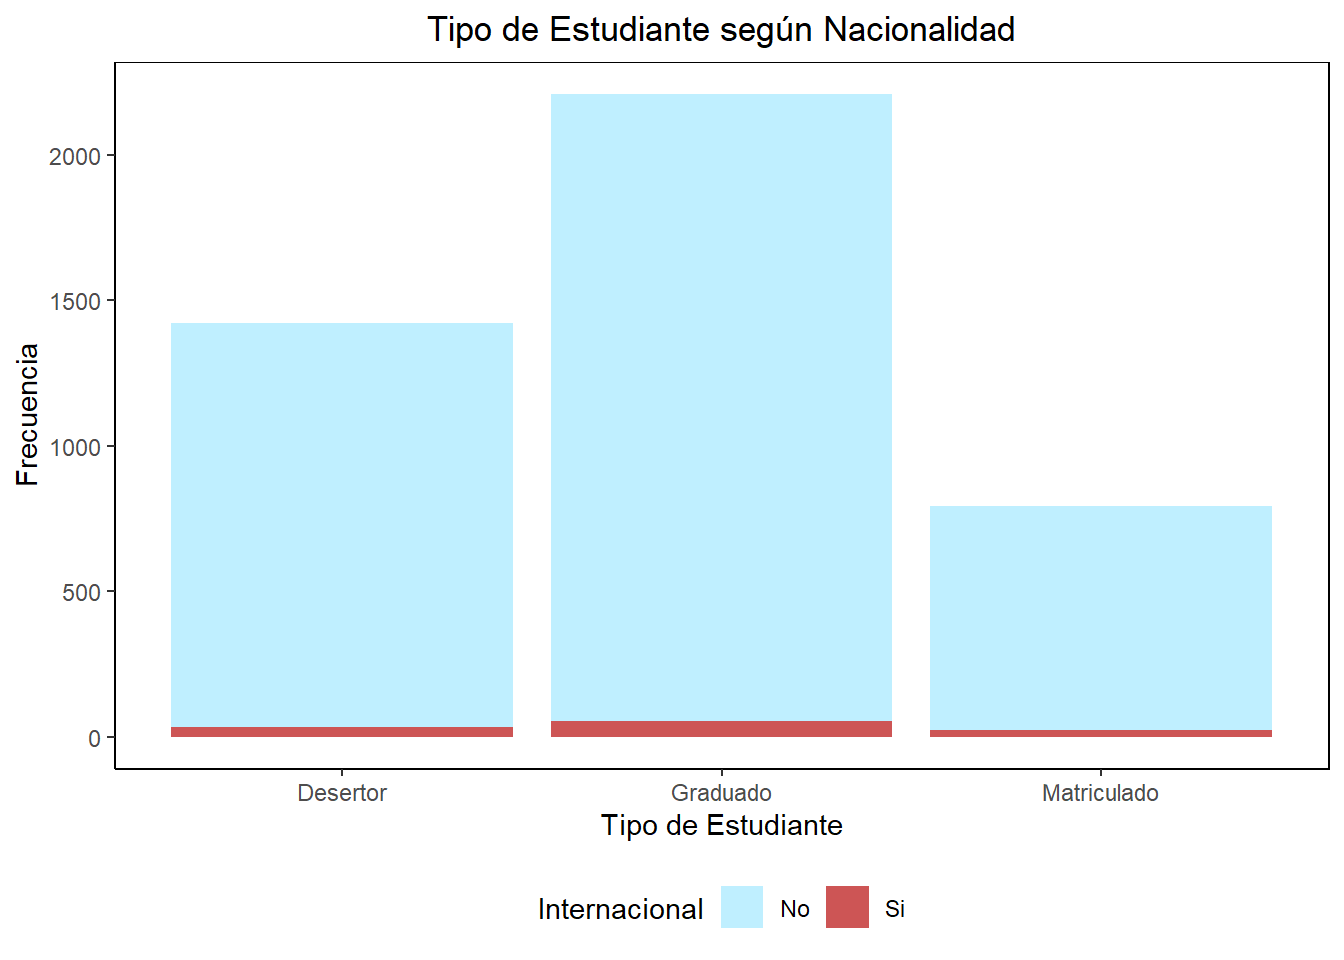
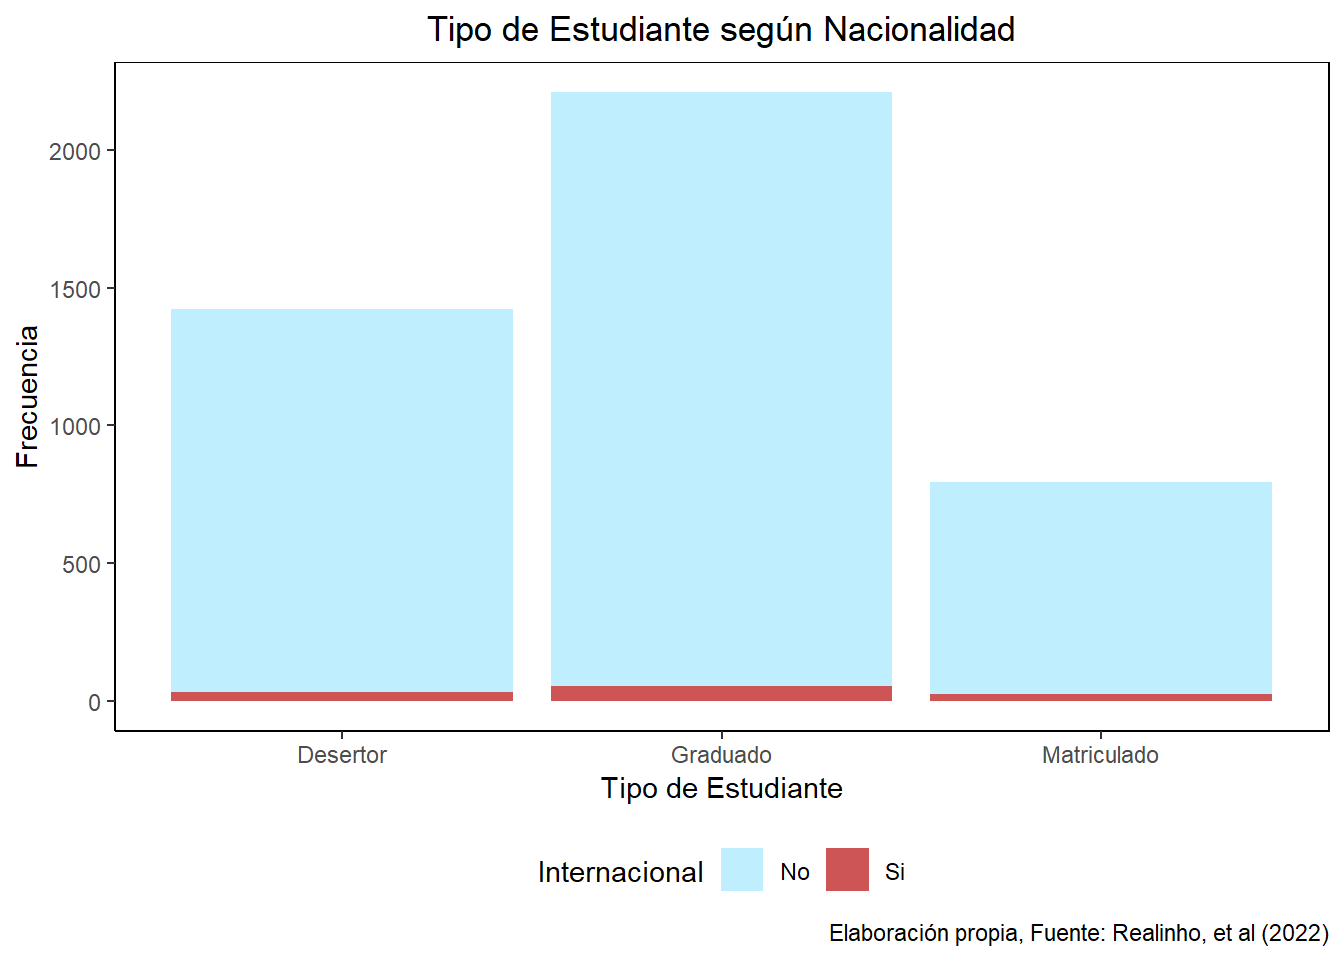
feat: correcciones bit-2

diff --git a/docs/bitacora-2.html b/docs/bitacora-2.html
@@ -64,6 +64,7 @@ pre > code.sourceCode > span > a:first-child::before { text-decoration: underlin
 <script src="site_libs/quarto-search/fuse.min.js"></script>
 <script src="site_libs/quarto-search/quarto-search.js"></script>
 <meta name="quarto:offset" content="./">
+<link href="./bitacora-3.html" rel="next">
 <link href="./bitacora-1.html" rel="prev">
 <script src="site_libs/quarto-html/quarto.js"></script>
 <script src="site_libs/quarto-html/popper.min.js"></script>
@@ -192,6 +193,12 @@ pre > code.sourceCode > span > a:first-child::before { text-decoration: underlin
   <div class="sidebar-item-container"> 
   <a href="./bitacora-2.html" class="sidebar-item-text sidebar-link active">
  <span class="menu-text"><span class="chapter-number">2</span>&nbsp; <span class="chapter-title">Bitácora 2: Análisis Descriptivo de los Datos</span></span></a>
+  </div>
+</li>
+        <li class="sidebar-item">
+  <div class="sidebar-item-container"> 
+  <a href="./bitacora-3.html" class="sidebar-item-text sidebar-link">
+ <span class="menu-text"><span class="chapter-number">3</span>&nbsp; <span class="chapter-title">Bitácora 3</span></span></a>
   </div>
 </li>
     </ul>
@@ -1177,7 +1184,7 @@ A continuación se presentan los paquetes necesarios, así como la inserción de
 <span id="cb13-54"><a href="#cb13-54" aria-hidden="true" tabindex="-1"></a>  <span class="fu">geom_tile</span>() <span class="sc">+</span> <span class="fu">scale_fill_gradient</span>(<span class="at">low=</span><span class="st">"#AAE48D"</span>,</span>
 <span id="cb13-55"><a href="#cb13-55" aria-hidden="true" tabindex="-1"></a>                                    <span class="at">high =</span> <span class="st">"#2B7308"</span>,</span>
 <span id="cb13-56"><a href="#cb13-56" aria-hidden="true" tabindex="-1"></a>                                    <span class="at">guide =</span> <span class="st">"colorbar"</span> )<span class="sc">+</span></span>
-<span id="cb13-57"><a href="#cb13-57" aria-hidden="true" tabindex="-1"></a>  <span class="fu">facet_wrap</span>(<span class="sc">~</span> target) <span class="sc">+</span> <span class="fu">labs</span>(<span class="at">x =</span> <span class="st">"Nivel educativo de la madre"</span>, <span class="at">y =</span> <span class="st">"Nivel educativo del padre"</span>, <span class="at">fill =</span> <span class="st">"Frecuencia"</span>)<span class="sc">+</span><span class="fu">theme_bw</span>() <span class="sc">+</span> <span class="fu">theme</span>(<span class="at">axis.text.x =</span> <span class="fu">element_text</span>(<span class="at">angle=</span><span class="dv">90</span>,<span class="at">hjust=</span><span class="dv">1</span>), <span class="at">size =</span> <span class="dv">6</span>)</span>
+<span id="cb13-57"><a href="#cb13-57" aria-hidden="true" tabindex="-1"></a>  <span class="fu">facet_wrap</span>(<span class="sc">~</span> target) <span class="sc">+</span> <span class="fu">labs</span>(<span class="at">x =</span> <span class="st">"Nivel educativo de la madre"</span>, <span class="at">y =</span> <span class="st">"Nivel educativo del padre"</span>, <span class="at">fill =</span> <span class="st">"Frecuencia"</span>, <span class="at">caption =</span> <span class="st">"Elaboración propia, Fuente: Realinho, et al (2022)"</span>)<span class="sc">+</span><span class="fu">theme_bw</span>() <span class="sc">+</span> <span class="fu">theme</span>(<span class="at">axis.text.x =</span> <span class="fu">element_text</span>(<span class="at">angle=</span><span class="dv">90</span>,<span class="at">hjust=</span><span class="dv">1</span>), <span class="at">size =</span> <span class="dv">6</span>)</span>
 <span id="cb13-58"><a href="#cb13-58" aria-hidden="true" tabindex="-1"></a><span class="fu">print</span>(p)</span></code><button title="Copiar al portapapeles" class="code-copy-button"><i class="bi"></i></button></pre></div>
 <div class="cell-output-display">
 <div>
@@ -1196,13 +1203,14 @@ A continuación se presentan los paquetes necesarios, así como la inserción de
 <span id="cb14-6"><a href="#cb14-6" aria-hidden="true" tabindex="-1"></a>    <span class="at">x =</span> <span class="st">"Tipo de Estudiante"</span>,</span>
 <span id="cb14-7"><a href="#cb14-7" aria-hidden="true" tabindex="-1"></a>    <span class="at">y =</span> <span class="st">"Frecuencia"</span>,</span>
 <span id="cb14-8"><a href="#cb14-8" aria-hidden="true" tabindex="-1"></a>    <span class="at">fill =</span> <span class="st">"Cuotas al día"</span>,</span>
-<span id="cb14-9"><a href="#cb14-9" aria-hidden="true" tabindex="-1"></a>    <span class="at">title =</span> <span class="st">"Deudor en Cuotas Escolares según el tipo de estudiante"</span></span>
-<span id="cb14-10"><a href="#cb14-10" aria-hidden="true" tabindex="-1"></a>  ) <span class="sc">+</span></span>
-<span id="cb14-11"><a href="#cb14-11" aria-hidden="true" tabindex="-1"></a>  <span class="fu">scale_fill_manual</span>(<span class="at">values =</span> <span class="fu">c</span>(<span class="st">"Si"</span> <span class="ot">=</span> <span class="st">"#A2CD5A"</span>,<span class="st">"No"</span><span class="ot">=</span><span class="st">"red"</span>))<span class="sc">+</span></span>
-<span id="cb14-12"><a href="#cb14-12" aria-hidden="true" tabindex="-1"></a>  <span class="fu">theme</span>(<span class="at">legend.position =</span> <span class="st">"bottom"</span>, </span>
-<span id="cb14-13"><a href="#cb14-13" aria-hidden="true" tabindex="-1"></a>        <span class="at">panel.border =</span> <span class="fu">element_rect</span>(<span class="at">colour =</span> <span class="st">"black"</span>, <span class="at">fill =</span> <span class="cn">NA</span>),</span>
-<span id="cb14-14"><a href="#cb14-14" aria-hidden="true" tabindex="-1"></a>        <span class="at">plot.title =</span> <span class="fu">element_text</span>(<span class="at">hjust =</span> <span class="fl">0.5</span>))</span>
-<span id="cb14-15"><a href="#cb14-15" aria-hidden="true" tabindex="-1"></a><span class="fu">print</span>(p)</span></code><button title="Copiar al portapapeles" class="code-copy-button"><i class="bi"></i></button></pre></div>
+<span id="cb14-9"><a href="#cb14-9" aria-hidden="true" tabindex="-1"></a>    <span class="at">title =</span> <span class="st">"Deudor en Cuotas Escolares según el tipo de estudiante"</span>,</span>
+<span id="cb14-10"><a href="#cb14-10" aria-hidden="true" tabindex="-1"></a>    <span class="at">caption =</span> <span class="st">"Elaboración propia, Fuente: Realinho, et al (2022)"</span></span>
+<span id="cb14-11"><a href="#cb14-11" aria-hidden="true" tabindex="-1"></a>  ) <span class="sc">+</span></span>
+<span id="cb14-12"><a href="#cb14-12" aria-hidden="true" tabindex="-1"></a>  <span class="fu">scale_fill_manual</span>(<span class="at">values =</span> <span class="fu">c</span>(<span class="st">"Si"</span> <span class="ot">=</span> <span class="st">"#A2CD5A"</span>,<span class="st">"No"</span><span class="ot">=</span><span class="st">"red"</span>))<span class="sc">+</span></span>
+<span id="cb14-13"><a href="#cb14-13" aria-hidden="true" tabindex="-1"></a>  <span class="fu">theme</span>(<span class="at">legend.position =</span> <span class="st">"bottom"</span>, </span>
+<span id="cb14-14"><a href="#cb14-14" aria-hidden="true" tabindex="-1"></a>        <span class="at">panel.border =</span> <span class="fu">element_rect</span>(<span class="at">colour =</span> <span class="st">"black"</span>, <span class="at">fill =</span> <span class="cn">NA</span>),</span>
+<span id="cb14-15"><a href="#cb14-15" aria-hidden="true" tabindex="-1"></a>        <span class="at">plot.title =</span> <span class="fu">element_text</span>(<span class="at">hjust =</span> <span class="fl">0.5</span>))</span>
+<span id="cb14-16"><a href="#cb14-16" aria-hidden="true" tabindex="-1"></a><span class="fu">print</span>(p)</span></code><button title="Copiar al portapapeles" class="code-copy-button"><i class="bi"></i></button></pre></div>
 <div class="cell-output-display">
 <div>
 <figure class="figure">
@@ -1216,7 +1224,7 @@ A continuación se presentan los paquetes necesarios, así como la inserción de
 <span id="cb15-2"><a href="#cb15-2" aria-hidden="true" tabindex="-1"></a>  <span class="fu">ggplot</span>(<span class="fu">aes</span>(<span class="at">x=</span>scholarship_holder, <span class="at">y =</span> target, <span class="at">fill =</span> n))<span class="sc">+</span></span>
 <span id="cb15-3"><a href="#cb15-3" aria-hidden="true" tabindex="-1"></a>  <span class="fu">geom_tile</span>()<span class="sc">+</span> </span>
 <span id="cb15-4"><a href="#cb15-4" aria-hidden="true" tabindex="-1"></a>  <span class="fu">theme_classic</span>() <span class="sc">+</span> </span>
-<span id="cb15-5"><a href="#cb15-5" aria-hidden="true" tabindex="-1"></a>  <span class="fu">labs</span>(<span class="at">x =</span> <span class="st">"Poseedor de Beca Socioeconómica"</span>, <span class="at">y =</span> <span class="st">"Tipo de Estudiante"</span>, <span class="at">fill =</span> <span class="st">"Frecuencia"</span>, <span class="at">title =</span> <span class="st">"Frecuencia de Estudiantes Graduados, Matriculados </span><span class="sc">\n</span><span class="st"> o Desertores según su categoría de beca"</span>) <span class="sc">+</span> </span>
+<span id="cb15-5"><a href="#cb15-5" aria-hidden="true" tabindex="-1"></a>  <span class="fu">labs</span>(<span class="at">x =</span> <span class="st">"Poseedor de Beca Socioeconómica"</span>, <span class="at">y =</span> <span class="st">"Tipo de Estudiante"</span>, <span class="at">fill =</span> <span class="st">"Frecuencia"</span>, <span class="at">title =</span> <span class="st">"Frecuencia de Estudiantes Graduados, Matriculados </span><span class="sc">\n</span><span class="st"> o Desertores según su categoría de beca"</span>, <span class="at">caption =</span> <span class="st">"Elaboración propia, Fuente: Realinho, et al (2022)"</span>) <span class="sc">+</span> </span>
 <span id="cb15-6"><a href="#cb15-6" aria-hidden="true" tabindex="-1"></a>  <span class="fu">scale_fill_continuous</span>(<span class="at">low =</span> <span class="st">"skyblue"</span>, <span class="at">high =</span> <span class="st">"darkblue"</span>)<span class="sc">+</span></span>
 <span id="cb15-7"><a href="#cb15-7" aria-hidden="true" tabindex="-1"></a>  <span class="fu">theme</span>(<span class="at">legend.position =</span> <span class="st">"right"</span>,</span>
 <span id="cb15-8"><a href="#cb15-8" aria-hidden="true" tabindex="-1"></a>        <span class="at">panel.border =</span> <span class="fu">element_rect</span>(<span class="at">colour =</span> <span class="st">"black"</span>, <span class="at">fill=</span><span class="cn">NA</span>),</span>
@@ -1239,13 +1247,14 @@ A continuación se presentan los paquetes necesarios, así como la inserción de
 <span id="cb16-6"><a href="#cb16-6" aria-hidden="true" tabindex="-1"></a>    <span class="at">x =</span> <span class="st">"Tipo de Estudiante"</span>,</span>
 <span id="cb16-7"><a href="#cb16-7" aria-hidden="true" tabindex="-1"></a>    <span class="at">y =</span> <span class="st">"Frecuencia"</span>,</span>
 <span id="cb16-8"><a href="#cb16-8" aria-hidden="true" tabindex="-1"></a>    <span class="at">fill =</span> <span class="st">"Internacional"</span>,</span>
-<span id="cb16-9"><a href="#cb16-9" aria-hidden="true" tabindex="-1"></a>    <span class="at">title =</span> <span class="st">"Tipo de Estudiante según Nacionalidad"</span></span>
-<span id="cb16-10"><a href="#cb16-10" aria-hidden="true" tabindex="-1"></a>  ) <span class="sc">+</span></span>
-<span id="cb16-11"><a href="#cb16-11" aria-hidden="true" tabindex="-1"></a>  <span class="fu">scale_fill_manual</span>(<span class="at">values =</span> <span class="fu">c</span>(<span class="st">"Si"</span> <span class="ot">=</span> <span class="st">"#CD5555"</span>,<span class="st">"No"</span><span class="ot">=</span><span class="st">"#BFEFFF"</span>))<span class="sc">+</span></span>
-<span id="cb16-12"><a href="#cb16-12" aria-hidden="true" tabindex="-1"></a>  <span class="fu">theme</span>(<span class="at">legend.position =</span> <span class="st">"bottom"</span>, </span>
-<span id="cb16-13"><a href="#cb16-13" aria-hidden="true" tabindex="-1"></a>        <span class="at">panel.border =</span> <span class="fu">element_rect</span>(<span class="at">colour =</span> <span class="st">"black"</span>, <span class="at">fill =</span> <span class="cn">NA</span>),</span>
-<span id="cb16-14"><a href="#cb16-14" aria-hidden="true" tabindex="-1"></a>        <span class="at">plot.title =</span> <span class="fu">element_text</span>(<span class="at">hjust =</span> <span class="fl">0.5</span>))</span>
-<span id="cb16-15"><a href="#cb16-15" aria-hidden="true" tabindex="-1"></a><span class="fu">print</span>(p)</span></code><button title="Copiar al portapapeles" class="code-copy-button"><i class="bi"></i></button></pre></div>
+<span id="cb16-9"><a href="#cb16-9" aria-hidden="true" tabindex="-1"></a>    <span class="at">title =</span> <span class="st">"Tipo de Estudiante según Nacionalidad"</span>,</span>
+<span id="cb16-10"><a href="#cb16-10" aria-hidden="true" tabindex="-1"></a>    <span class="at">caption =</span> <span class="st">"Elaboración propia, Fuente: Realinho, et al (2022)"</span></span>
+<span id="cb16-11"><a href="#cb16-11" aria-hidden="true" tabindex="-1"></a>  ) <span class="sc">+</span></span>
+<span id="cb16-12"><a href="#cb16-12" aria-hidden="true" tabindex="-1"></a>  <span class="fu">scale_fill_manual</span>(<span class="at">values =</span> <span class="fu">c</span>(<span class="st">"Si"</span> <span class="ot">=</span> <span class="st">"#CD5555"</span>,<span class="st">"No"</span><span class="ot">=</span><span class="st">"#BFEFFF"</span>))<span class="sc">+</span></span>
+<span id="cb16-13"><a href="#cb16-13" aria-hidden="true" tabindex="-1"></a>  <span class="fu">theme</span>(<span class="at">legend.position =</span> <span class="st">"bottom"</span>, </span>
+<span id="cb16-14"><a href="#cb16-14" aria-hidden="true" tabindex="-1"></a>        <span class="at">panel.border =</span> <span class="fu">element_rect</span>(<span class="at">colour =</span> <span class="st">"black"</span>, <span class="at">fill =</span> <span class="cn">NA</span>),</span>
+<span id="cb16-15"><a href="#cb16-15" aria-hidden="true" tabindex="-1"></a>        <span class="at">plot.title =</span> <span class="fu">element_text</span>(<span class="at">hjust =</span> <span class="fl">0.5</span>))</span>
+<span id="cb16-16"><a href="#cb16-16" aria-hidden="true" tabindex="-1"></a><span class="fu">print</span>(p)</span></code><button title="Copiar al portapapeles" class="code-copy-button"><i class="bi"></i></button></pre></div>
 <div class="cell-output-display">
 <div>
 <figure class="figure">
@@ -1261,9 +1270,10 @@ A continuación se presentan los paquetes necesarios, así como la inserción de
 <span id="cb17-4"><a href="#cb17-4" aria-hidden="true" tabindex="-1"></a>    <span class="at">x =</span> <span class="st">"Edad de ingreso a la universidad"</span>,</span>
 <span id="cb17-5"><a href="#cb17-5" aria-hidden="true" tabindex="-1"></a>    <span class="at">y =</span> <span class="st">"Densidad"</span>,</span>
 <span id="cb17-6"><a href="#cb17-6" aria-hidden="true" tabindex="-1"></a>    <span class="at">fill =</span> <span class="st">"Categoría del estudiante"</span>,</span>
-<span id="cb17-7"><a href="#cb17-7" aria-hidden="true" tabindex="-1"></a>    <span class="at">title =</span> <span class="st">"Densidades de edad de admisión por categoría de&nbsp;estudiante"</span></span>
-<span id="cb17-8"><a href="#cb17-8" aria-hidden="true" tabindex="-1"></a>  )</span>
-<span id="cb17-9"><a href="#cb17-9" aria-hidden="true" tabindex="-1"></a><span class="fu">print</span>(p)</span></code><button title="Copiar al portapapeles" class="code-copy-button"><i class="bi"></i></button></pre></div>
+<span id="cb17-7"><a href="#cb17-7" aria-hidden="true" tabindex="-1"></a>    <span class="at">title =</span> <span class="st">"Densidades de edad de admisión por categoría de&nbsp;estudiante"</span>,</span>
+<span id="cb17-8"><a href="#cb17-8" aria-hidden="true" tabindex="-1"></a>    <span class="at">caption =</span> <span class="st">"Elaboración propia, Fuente: Realinho, et al (2022)"</span></span>
+<span id="cb17-9"><a href="#cb17-9" aria-hidden="true" tabindex="-1"></a>  )</span>
+<span id="cb17-10"><a href="#cb17-10" aria-hidden="true" tabindex="-1"></a><span class="fu">print</span>(p)</span></code><button title="Copiar al portapapeles" class="code-copy-button"><i class="bi"></i></button></pre></div>
 <div class="cell-output-display">
 <div>
 <figure class="figure">
@@ -1280,8 +1290,9 @@ A continuación se presentan los paquetes necesarios, así como la inserción de
 <span id="cb18-5"><a href="#cb18-5" aria-hidden="true" tabindex="-1"></a>    <span class="at">y =</span> <span class="st">"Densidad"</span>,</span>
 <span id="cb18-6"><a href="#cb18-6" aria-hidden="true" tabindex="-1"></a>    <span class="at">fill =</span> <span class="st">"Categoría del estudiante"</span>,</span>
 <span id="cb18-7"><a href="#cb18-7" aria-hidden="true" tabindex="-1"></a>    <span class="at">title =</span> <span class="st">"Densidades de créditos aprobados en primer semestre por tipo de estudiante"</span>,</span>
-<span id="cb18-8"><a href="#cb18-8" aria-hidden="true" tabindex="-1"></a>  ) <span class="sc">+</span>cowplot<span class="sc">::</span><span class="fu">theme_cowplot</span>()</span>
-<span id="cb18-9"><a href="#cb18-9" aria-hidden="true" tabindex="-1"></a><span class="fu">print</span>(p)</span></code><button title="Copiar al portapapeles" class="code-copy-button"><i class="bi"></i></button></pre></div>
+<span id="cb18-8"><a href="#cb18-8" aria-hidden="true" tabindex="-1"></a>    <span class="at">caption =</span> <span class="st">"Elaboración propia, Fuente: Realinho, et al (2022)"</span></span>
+<span id="cb18-9"><a href="#cb18-9" aria-hidden="true" tabindex="-1"></a>  ) <span class="sc">+</span>cowplot<span class="sc">::</span><span class="fu">theme_cowplot</span>()</span>
+<span id="cb18-10"><a href="#cb18-10" aria-hidden="true" tabindex="-1"></a><span class="fu">print</span>(p)</span></code><button title="Copiar al portapapeles" class="code-copy-button"><i class="bi"></i></button></pre></div>
 <div class="cell-output-display">
 <div>
 <figure class="figure">
@@ -1810,6 +1821,9 @@ window.document.addEventListener("DOMContentLoaded", function (event) {
       </a>          
   </div>
   <div class="nav-page nav-page-next">
+      <a href="./bitacora-3.html" class="pagination-link" aria-label="Bitácora 3">
+        <span class="nav-page-text"><span class="chapter-number">3</span>&nbsp; <span class="chapter-title">Bitácora 3</span></span> <i class="bi bi-arrow-right-short"></i>
+      </a>
   </div>
 </nav>
 </div> <!-- /content -->
